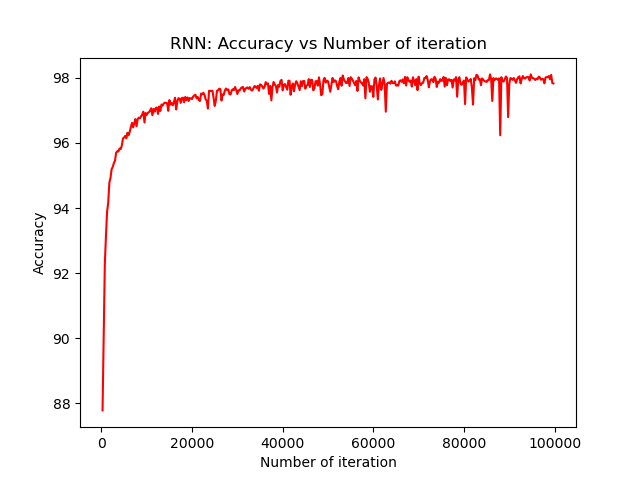
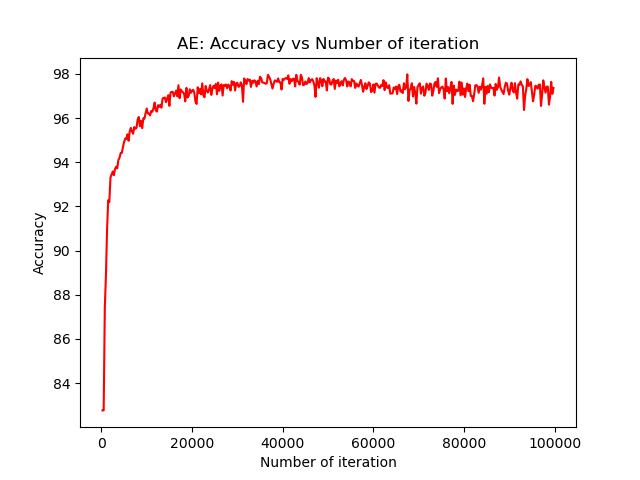
autoencoder

diff --git a/src/models/autoencoder.py b/src/models/autoencoder.py
@@ -1,0 +1,80 @@
+import torch
+import torch.nn as nn
+
+#inspired by https://curiousily.com/posts/time-series-anomaly-detection-using-lstm-autoencoder-with-pytorch-in-python/
+
+class Encoder(nn.Module):
+    def __init__(self, input_size, hidden_size, num_layers,output_size):
+        super(Encoder, self).__init__()
+
+     # Number of hidden dimensions
+        self.hidden_size = hidden_size
+        
+        # Number of hidden layers
+        self.num_layers = num_layers
+        
+        # Lstm 
+        self.lstm = nn.LSTM(input_size, hidden_size, num_layers, batch_first=True)
+        
+    
+    def forward(self, x):
+        
+        # Initialize hidden state with zeros
+        h0 = torch.rand(self.num_layers, x.size(0), self.hidden_size)
+        c0 = torch.rand(self.num_layers, x.size(0), self.hidden_size)
+            
+        # One time step
+        out, (hidden_state, cell_state) = self.lstm(x, (h0,c0))
+        hidden_state = hidden_state[-1, :, :]
+        return hidden_state
+
+class Decoder(nn.Module):
+    def __init__(self, input_size, hidden_size, num_layers,output_size):
+        super(Decoder, self).__init__()
+
+     # Number of hidden dimensions
+        self.hidden_size = hidden_size
+        
+        # Number of hidden layers
+        self.num_layers = num_layers
+        
+        # Lstm 
+        self.lstm = nn.LSTM(hidden_size, hidden_size, num_layers, batch_first=True)
+        # Readout layer
+        self.fc = nn.Linear(hidden_size, output_size)
+    
+    def forward(self, x):
+        
+        # Initialize hidden state with zeros
+        h0 = torch.rand(self.num_layers, self.hidden_size)
+        c0 = torch.rand(self.num_layers, self.hidden_size)
+            
+        # One time step
+        out, (hidden_state, cell_state) = self.lstm(x, (h0,c0))
+        out = self.fc(out.squeeze(0))
+        return out
+
+class AutoEncoder(nn.Module):
+    def __init__(self, input_size, hidden_size, num_layers,output_size):
+        super(AutoEncoder, self).__init__()
+
+        self.input_size = input_size
+        self.output_size = output_size
+    
+        # Number of hidden dimensions
+        self.hidden_size = hidden_size
+        
+        # Number of hidden layers
+        self.num_layers = num_layers
+
+        self.encoder = Encoder(input_size, hidden_size, num_layers,output_size)
+        self.decoder = Decoder(input_size, hidden_size, num_layers,output_size)
+        self.fc = nn.Linear(hidden_size, output_size)
+    
+    def forward(self, x):
+            
+        # One time step
+        encoder_output = self.encoder(x)
+        decoder_output = self.decoder(encoder_output)
+        """ out = self.fc(decoder_output.squeeze(0)) """
+        return decoder_output

diff --git a/src/train/train_autoencoder.py b/src/train/train_autoencoder.py
@@ -4,7 +4,7 @@ import torch.nn as nn
 from torch.autograd import Variable
 
 
-from src.models.lstm import BiLSTMModel
+from src.models.autoencoder import AutoEncoder
 from src.data.load_data import importDataloader
 from src.train.util import progess_visualization
 
@@ -12,8 +12,8 @@ from src.train.util import progess_visualization
 # includes code from: https://www.kaggle.com/code/kanncaa1/recurrent-neural-network-with-pytorch/notebook
 
 
-# train lstm on specified dataset. If transfer_learning is set to True it will pretrain on dataset on then finetune on ptbdb
-def trainLSTM(hyperparameters, options):
+# train autoencoder on specified dataset. 
+def trainAutoencoder(hyperparameters, options):
     
     # load hyperparameters in variables for readability
     dataset_name = options['dataset_name']
@@ -27,7 +27,7 @@ def trainLSTM(hyperparameters, options):
     learning_rate = hyperparameters['learning_rate']
     
     # for storage and logging
-    model_name = 'LSTM_{}_{}_{}_{}'.format(dataset_name, num_epochs, hidden_dim, layer_dim)
+    model_name = 'Autoencoder_{}_{}_{}_{}'.format(dataset_name, num_epochs, hidden_dim, layer_dim)
 
     
 
@@ -37,12 +37,12 @@ def trainLSTM(hyperparameters, options):
                                                    batch_size=batch_size)
     
     
-    # Create LSTM & Optimizer
-    model = BiLSTMModel(input_dim, hidden_dim, layer_dim, output_dim)
+    # Create Autoencoder & Optimizer
+    model = AutoEncoder(input_dim, hidden_dim, layer_dim, output_dim)
     optimizer = torch.optim.Adam(model.parameters(), lr=learning_rate)
     
     
-    # train LSTM
+    # train Autoencoder
     try:
         model = torch.load(options['saved_model_path'] + model_name)
         print('loaded model')

diff --git a/src/train/util.py b/src/train/util.py
@@ -2,6 +2,8 @@ from matplotlib import pyplot as plt
 import pandas as pd
 from src.train.train_rnn import trainRNN
 from src.train.train_transformer import trainTransformer
+from src.train.train_lstm import trainLSTM
+from src.train.train_autoencoder import trainAutoencoder
 from config.config import config
 
 def get_training_function(model_name):
@@ -9,6 +11,11 @@ def get_training_function(model_name):
         return trainRNN
     elif model_name == 'Transformer':
         return trainTransformer
+    elif model_name == 'BidirectionalLSTM':
+        return trainLSTM
+    elif model_name == 'Autoencoder':
+        return trainAutoencoder
+        
     
 
 def progess_visualization(iteration_list, loss_list, accuracy_list, name):          
@@ -17,7 +24,7 @@ def progess_visualization(iteration_list, loss_list, accuracy_list, name):
     plt.plot(iteration_list,loss_list)
     plt.xlabel("Number of iteration")
     plt.ylabel("Loss")
-    plt.title("RNN: Loss vs Number of iteration")
+    plt.title(name + ": Loss vs Number of iteration")
     plt.savefig('./reports/figures/' + name + '_loss.png')
     #plt.show()
 
@@ -25,7 +32,7 @@ def progess_visualization(iteration_list, loss_list, accuracy_list, name):
     plt.plot(iteration_list,accuracy_list,color = "red")
     plt.xlabel("Number of iteration")
     plt.ylabel("Accuracy")
-    plt.title("RNN: Accuracy vs Number of iteration")
+    plt.title(name + ": Accuracy vs Number of iteration")
     plt.savefig(config['figure_path'] + name + '_accuracy.png')
     #plt.show()
     

diff --git a/src/models/lstm.py b/src/models/lstm.py
@@ -4,12 +4,10 @@ import torch.nn as nn
 #inspired by https://www.youtube.com/watch?v=jGst43P-TJA
 
 class BiLSTMModel(nn.Module):
-    def __init__(self, input_size, hidden_size, num_layers,output_size, num_classes):
+    def __init__(self, input_size, hidden_size, num_layers,output_size):
         super(BiLSTMModel, self).__init__()
-        self.sigmoid = nn.Sigmoid()
-        self.num_classes = num_classes
 
-    # Number of hidden dimensions
+        # Number of hidden dimensions
         self.hidden_size = hidden_size
         
         # Number of hidden layers
@@ -30,10 +28,7 @@ class BiLSTMModel(nn.Module):
         # One time step
         out, (hidden_state, cell_state) = self.lstm(x, (h0,c0))
         out = self.fc(out[:, -1, :])
-        if self.num_classes == 2:  
-            out = self.sigmoid(out) 
+
         return out
     
-    """ def init_hidden(self, batch_size):
-        h0 = torch.rand(self.layer_dim, batch_size, self.hidden_size)
-        return h0 """
+    

diff --git a/src/models/hyperparameters.py b/src/models/hyperparameters.py
@@ -21,4 +21,22 @@ params = {
                 'mlp_dropout':0.4,
                 'dropout':0.25,
     },
+        'BidirectionalLSTM'   : {
+                'input_dim': config['sequence_length'],
+                'hidden_dim': 100,
+                'layer_dim': 2,
+                'output_dim': {'mitbih': 5, 'ptbdb': 2},
+                'batch_size': 100,
+                'num_epochs': 30,
+                'learning_rate': 0.005,
+                },
+        'Autoencoder'   : {
+                'input_dim': config['sequence_length'],
+                'hidden_dim': 100,
+                'layer_dim': 2,
+                'output_dim': {'mitbih': 5, 'ptbdb': 2},
+                'batch_size': 100,
+                'num_epochs': 30,
+                'learning_rate': 0.0005,
+                }
 }
